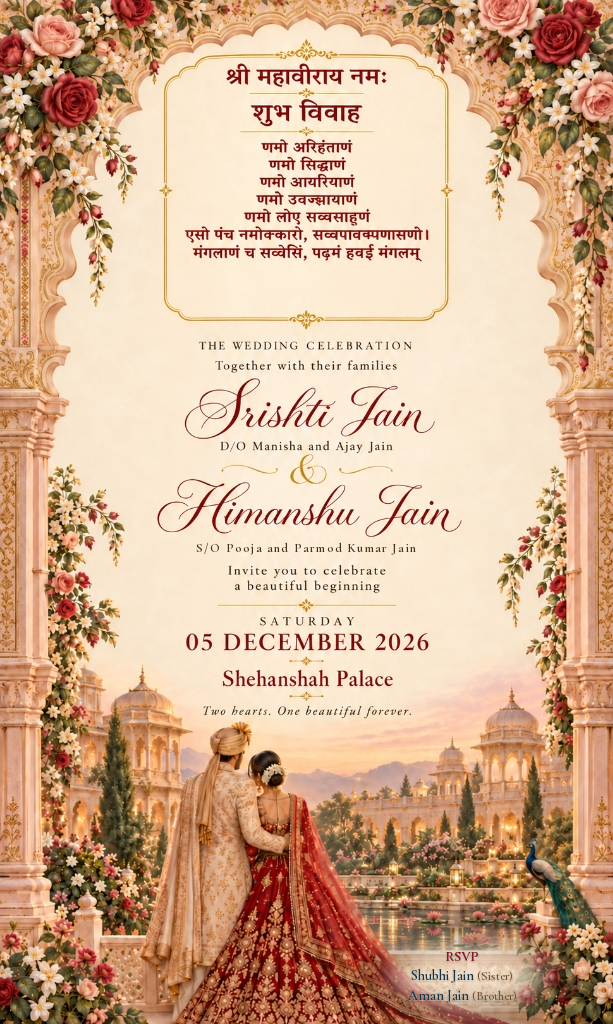
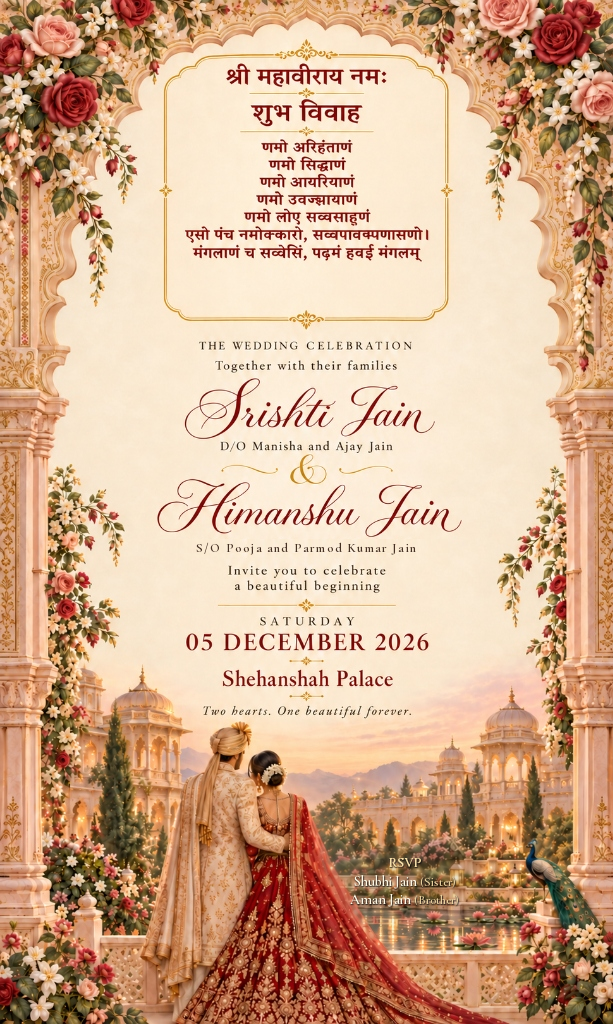
Position RSVP in open space to the left of peacock with realistic gold foil letterpress

Changed region(s): [[0.5579, 0.8125, 0.8989, 1.0]]

diff --git a/index.html b/index.html
@@ -602,7 +602,7 @@
           <div class="card-display-envelope reveal-animated-content" role="region" aria-label="Wedding Invitation Card Keepsake">
             <div id="card-preview-wrap" class="card-art-frame" role="button" tabindex="0" aria-label="Tap to inspect full invitation card in high resolution">
               <img id="card-preview-img"
-                   src="assets/images/invitation_card.png?v=5.1"
+                   src="assets/images/invitation_card.png?v=5.2"
                    alt="Srishti Jain &amp; Himanshu Jain Wedding Invitation Keepsake Card with RSVP Shubhi Jain (Sister) and Aman Jain (Brother)"
                    class="keepsake-card-image"
                    width="613"
@@ -635,7 +635,7 @@
       <div class="lightbox-overlay" id="lightbox-close-overlay"></div>
       <div class="lightbox-content">
         <button id="lightbox-close-btn" class="lightbox-close-btn" type="button" aria-label="Close enlarged card view">&times;</button>
-        <img id="lightbox-img" src="assets/images/invitation_card.png?v=5.1" alt="Enlarged Srishti &amp; Himanshu Wedding Invitation Card with RSVP Shubhi Jain (Sister) and Aman Jain (Brother)" class="lightbox-card-image">
+        <img id="lightbox-img" src="assets/images/invitation_card.png?v=5.2" alt="Enlarged Srishti &amp; Himanshu Wedding Invitation Card with RSVP Shubhi Jain (Sister) and Aman Jain (Brother)" class="lightbox-card-image">
       </div>
     </div>
 

diff --git a/js/card.js b/js/card.js
@@ -35,7 +35,7 @@
   // Background artwork — user uploaded master card with Shehanshah Palace & cursive calligraphy
   const bgImg  = new Image();
   bgImg.crossOrigin = 'anonymous';
-  bgImg.src    = 'assets/images/invitation_card.png?v=5.1';
+  bgImg.src    = 'assets/images/invitation_card.png?v=5.2';
   let bgLoaded = false;
 
   function renderCard() {
